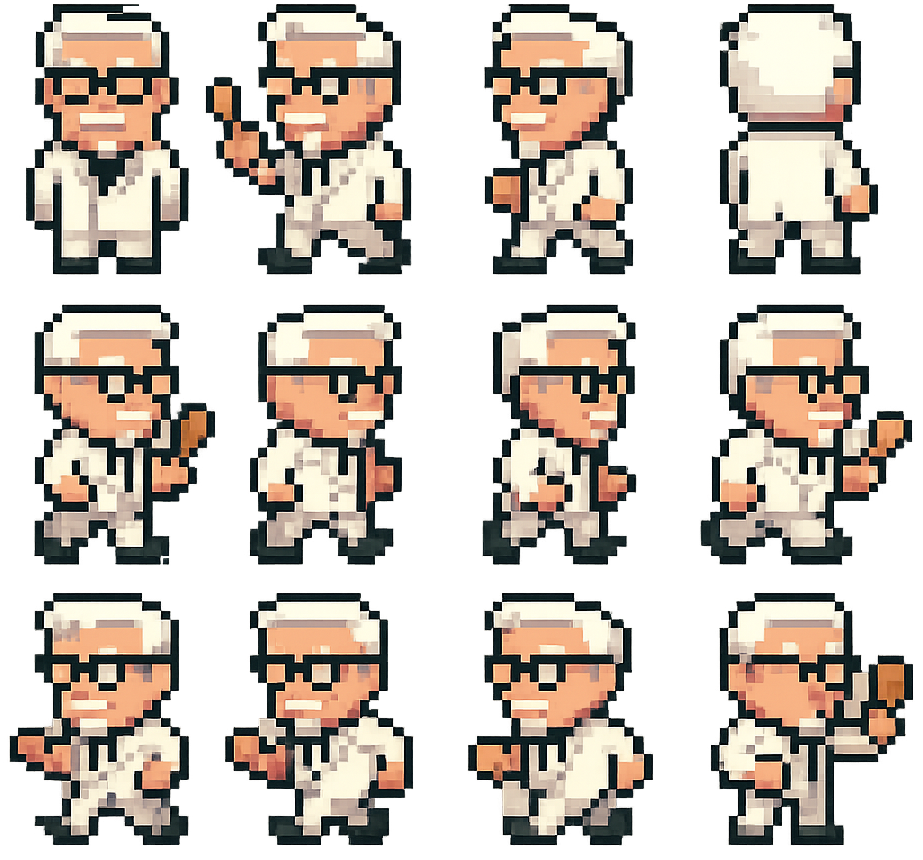
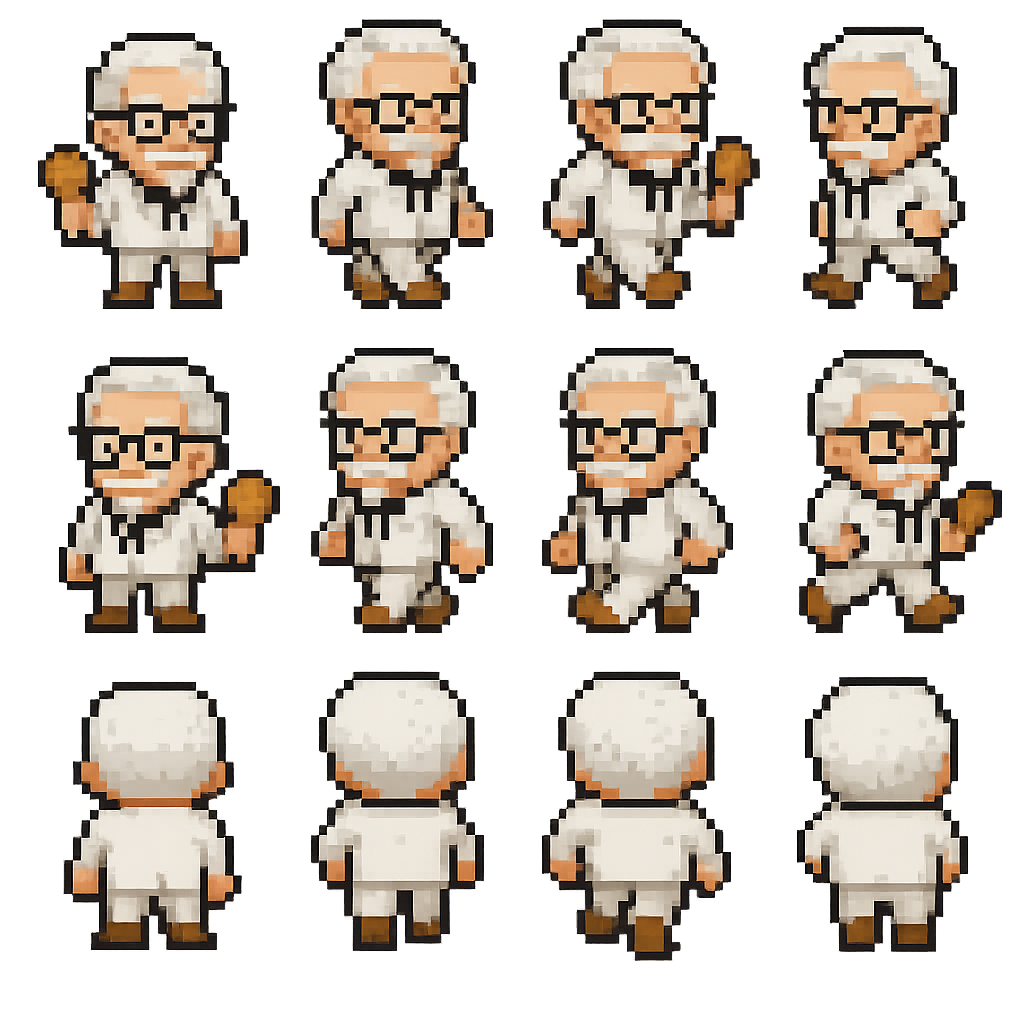
background

diff --git a/src/game/characters/Colonel.ts b/src/game/characters/Colonel.ts
@@ -18,8 +18,8 @@ class Colonel extends Physics.Arcade.Sprite {
 
   static preload(scene: Scene) {
     scene.load.spritesheet('colonel', 'assets/colonel.png', {
-      frameWidth: 230,  // make sure this matches your actual sprite dimensions
-      frameHeight: 215
+      frameWidth: 256,
+      frameHeight: 256
     });
   }
 
@@ -62,15 +62,17 @@ class Colonel extends Physics.Arcade.Sprite {
     const speed = 150;
     this.setVelocity(0);
 
+
+    // TODO: fix the spritesheets for all directions
     if (this.cursors.left?.isDown) {
       this.setVelocityX(-speed);
-      this.anims.play('walk-left', true);
+      this.anims.play('walk-down', true);
     } else if (this.cursors.right?.isDown) {
       this.setVelocityX(speed);
-      this.anims.play('walk-right', true);
+      this.anims.play('walk-down', true);
     } else if (this.cursors.up?.isDown) {
       this.setVelocityY(-speed);
-      this.anims.play('walk-up', true);
+      this.anims.play('walk-down', true);
     } else if (this.cursors.down?.isDown) {
       this.setVelocityY(speed);
       this.anims.play('walk-down', true);

diff --git a/src/game/scenes/Game.ts b/src/game/scenes/Game.ts
@@ -4,7 +4,7 @@ import Colonel from "../characters/Colonel";
 export class Game extends Scene {
   camera!: Phaser.Cameras.Scene2D.Camera;
   camera: Phaser.Cameras.Scene2D.Camera;
-  background: Phaser.GameObjects.Image;
+  floor: Phaser.GameObjects.Image;
   msg_text: Phaser.GameObjects.Text;
   colonel: Colonel;
 
@@ -14,14 +14,15 @@ export class Game extends Scene {
 
   preload() {
     Colonel.preload(this);
+    this.load.image("floor", "assets/floor.png");
+
   }
 
   create() {
     this.camera = this.cameras.main;
-    this.camera.setBackgroundColor(0x00ff00);
 
-    this.background = this.add.image(512, 384, "background");
-    this.background.setAlpha(0.5);
+    this.floor = this.add.image(0, 0, "floor").setOrigin(0, 0);
+    this.floor.setDisplaySize(this.camera.width, this.camera.height);
 
     // Create the colonel sprite
     this.colonel = new Colonel(this, 512, 384);
